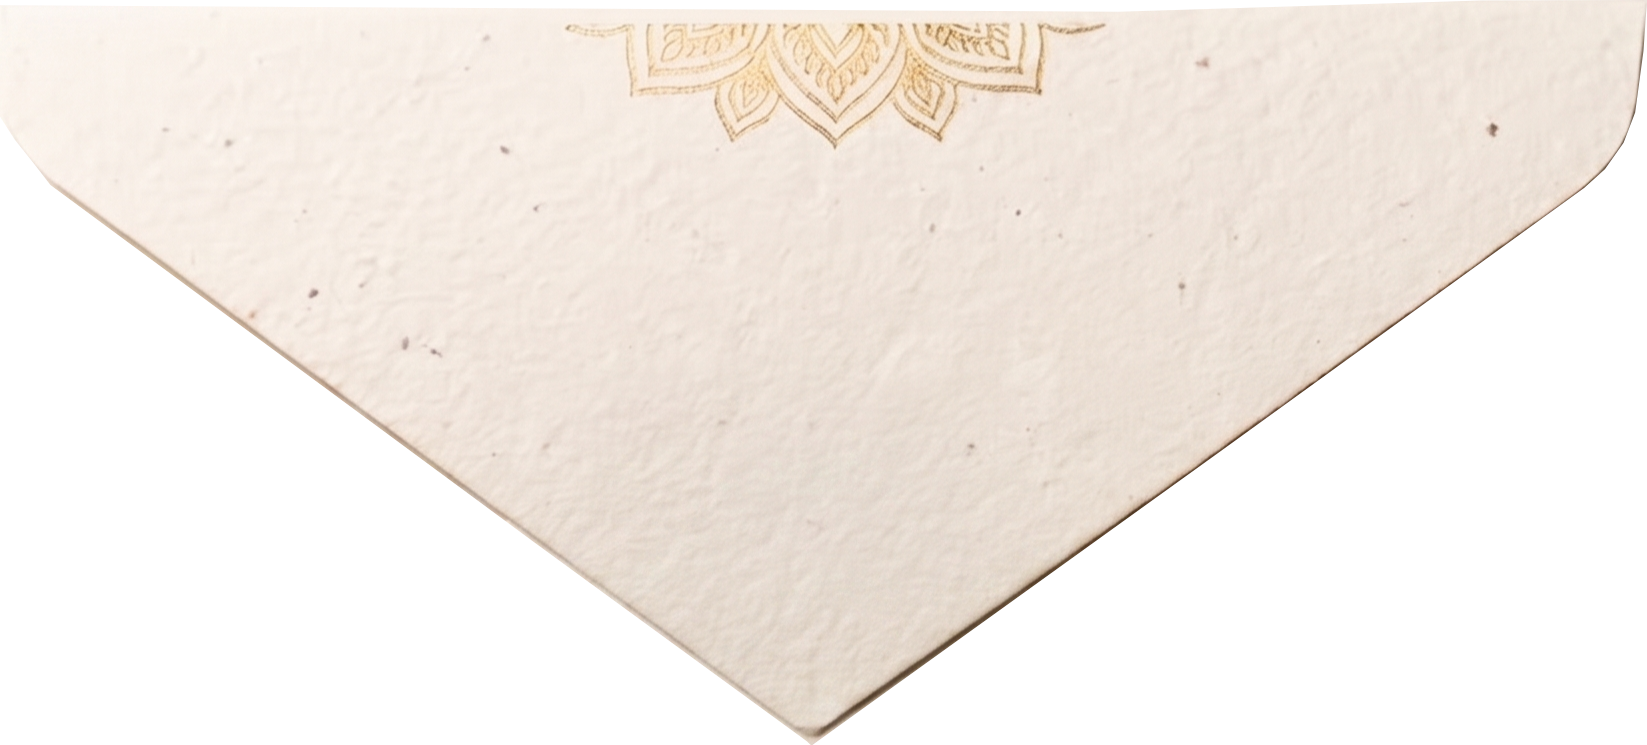
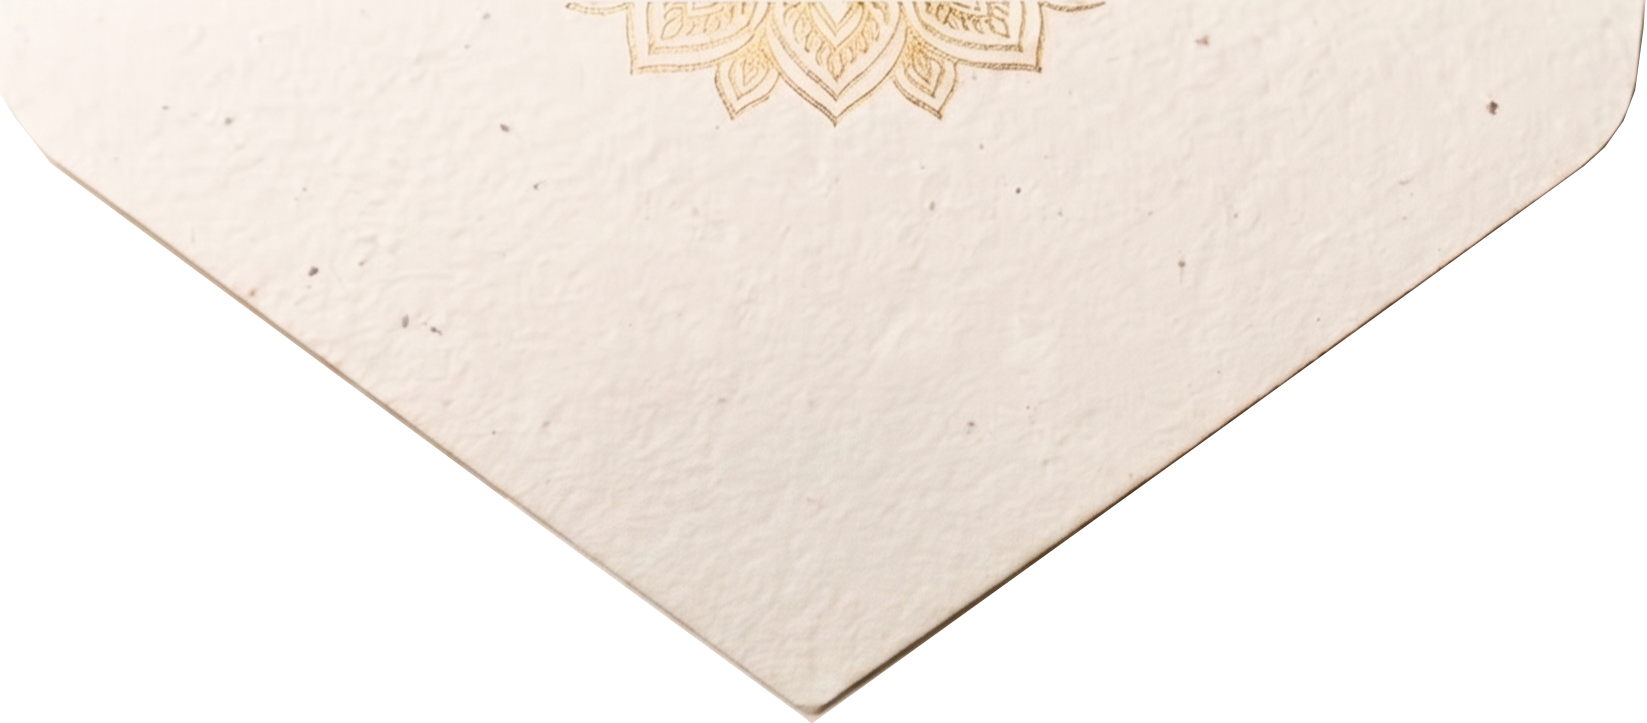
feat: add video playback on user interaction and enhance EnvelopeIntro with opened envelope image

diff --git a/src/components/EnvelopeIntro.tsx b/src/components/EnvelopeIntro.tsx
@@ -93,6 +93,19 @@ export default function EnvelopeIntro({ onDone }: { onDone: () => void }) {
             }}
           />
 
+          {/* Layer 2 — opened envelope interior, visible behind the flap */}
+          <img
+            src={`${B}env-opened.png`}
+            alt=""
+            draggable={false}
+            style={{
+              position: 'absolute', inset: 0,
+              width: '100%', height: '100%',
+              objectFit: 'fill',
+              userSelect: 'none',
+            }}
+          />
+
           {/* Layer 3 — flap (RGBA transparent background).
               Width matches the canvas; height is auto so the image keeps its
               natural proportions — bottom edge lands at ~70% of canvas height. */}

diff --git a/src/App.tsx b/src/App.tsx
@@ -51,6 +51,15 @@ export default function App() {
   }, []);
 
   useEffect(() => {
+    const vid = videoRef.current;
+    if (!vid) return;
+    vid.play().catch(() => {
+      const resume = () => { vid.play().catch(() => {}); document.removeEventListener('click', resume); };
+      document.addEventListener('click', resume, { once: true });
+    });
+  }, []);
+
+  useEffect(() => {
     const onScroll = () => {
       if (!videoRef.current) return;
       // Portrait viewports: video is already portrait-shaped, centre it
@@ -133,6 +142,7 @@ export default function App() {
           willChange: 'object-position',
           zIndex: -1,
           opacity: 0.15,
+          pointerEvents: 'none',
         }}
       >
         <source src={`${import.meta.env.BASE_URL}mandala-bg.mp4`} type="video/mp4" />